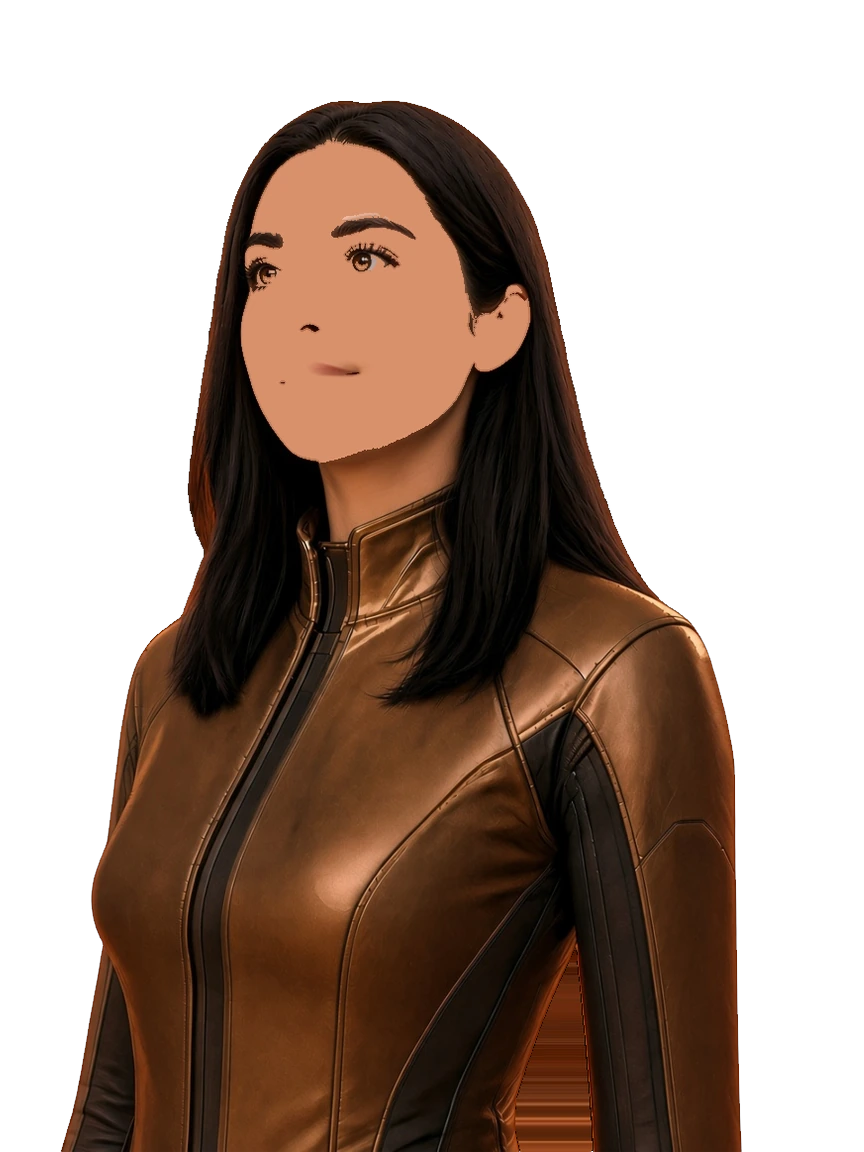
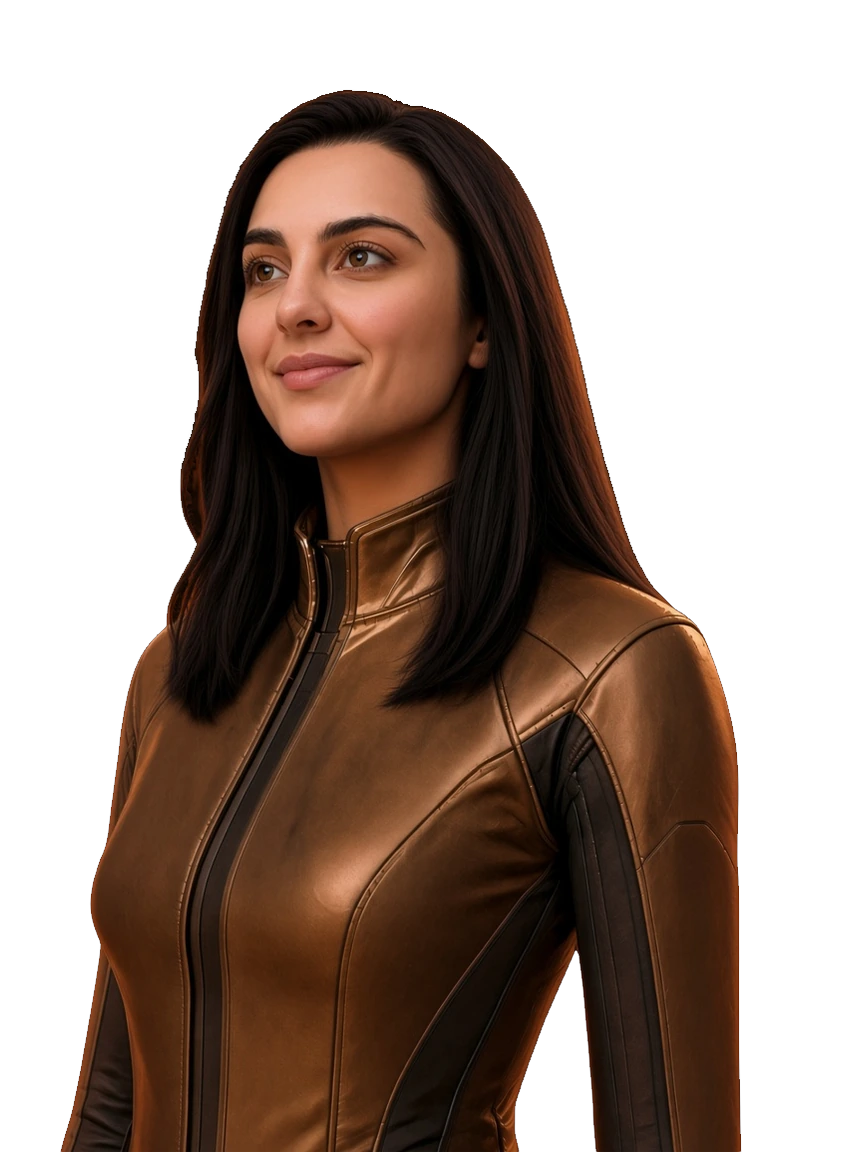
Restore a photorealistic hero face and drop the muddy fill under the arm
Match the bust to the real-skin screenshot, keep the bronze jacket, and leave the armpit as a clean cutout so the orange page shows through instead of a fake triangle.

diff --git a/src/components/HeroAvatar.tsx b/src/components/HeroAvatar.tsx
@@ -1,8 +1,8 @@
 import { useCallback, useEffect, useRef, useState } from 'react'
 import '../HeroAvatar.css'
 
-const bronze = `${import.meta.env.BASE_URL}avatar/lyubov-bronze-bust.webp?v=flat-match`
-const steel = `${import.meta.env.BASE_URL}avatar/lyubov-steel-xray.webp?v=flat-match`
+const bronze = `${import.meta.env.BASE_URL}avatar/lyubov-bronze-bust.webp?v=real-face`
+const steel = `${import.meta.env.BASE_URL}avatar/lyubov-steel-xray.webp?v=real-face`
 
 type HitMap = {
   data: Uint8ClampedArray
